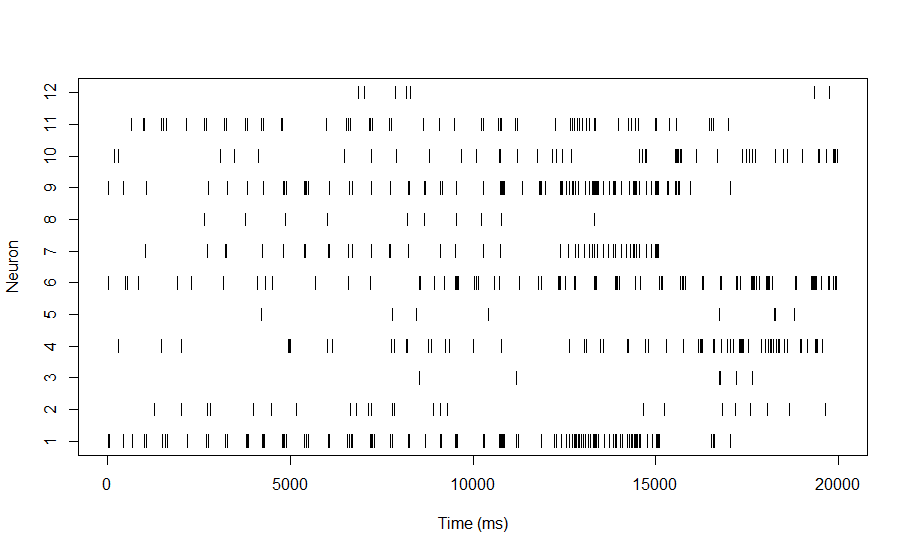
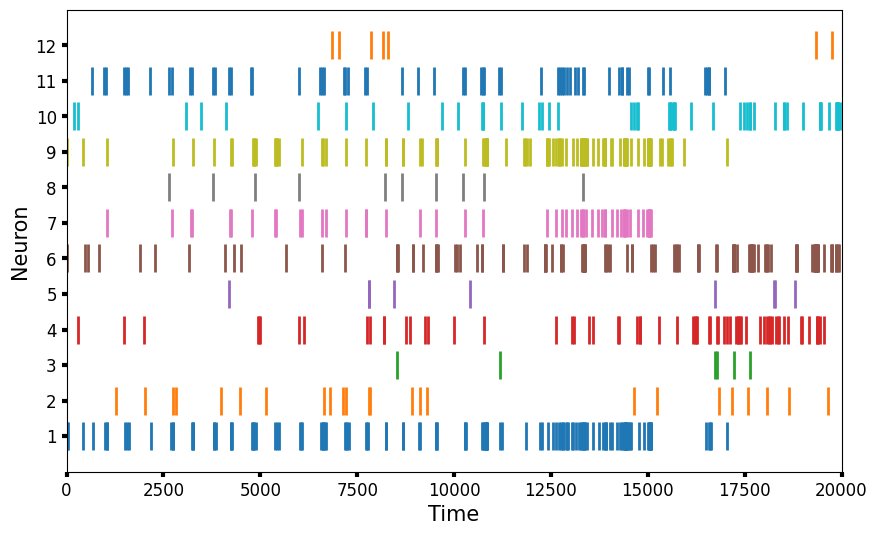
first post

diff --git a/pages/posts/Directednetwork.js b/pages/posts/Directednetwork.js
@@ -4,36 +4,103 @@ import {
     Link,
     List,
     ListItem,
-    AspectRatio
+    AspectRatio,
+    Image,
+    Stack
   } from '@chakra-ui/react'
   import { ExternalLinkIcon } from '@chakra-ui/icons'
   import { Title, PostImage, Meta } from '../../components/post'
   import P from '../../components/paragraph'
   import Layout from '../../components/layouts/article'
+
+
+import MathJax from 'react-mathjax'
+
   
+  const tex = `p(s_{j+1} - s_{j} = w_{j}| s_{j}, μ(t)) = μ(s_{j+1})exp[-∫_{s_j}^{s_j+1}μ(t)dt]`
+  const tex2 =`dμ_{g}(t)/dt = Σ_{l=1}^{12}f_{gl}(μ_{l}(t))`
+
   const Post = () => (
+
       <Layout title="Directed networks of neurons">
+        
           <Container>
+  
               <Title>
                   Directed networks of neurons <Badge> 2020 May </Badge>
               </Title>
 
-              Key words:  
-  
-              <List ml={3} my={0}>
+              <List ml={3} my={1}>
                   <ListItem>
                       <Meta>Spike sequences </Meta>
+                      <Meta>Point Processes</Meta>
+                      <Meta>Functional Data Analysis</Meta>
+                      <Meta>Network Analysis</Meta>
+                      <Meta>Variable Selection</Meta>
                   </ListItem>
               </List>
+              <br></br>
+              <h1><b>Introduction</b></h1>
+              <p>
+                This work studies acitivities of neurons on both individual and group level. We aim to establish and analyze a time-varying network. The central objective is how to infer a dynamic network on the bottom from multiple point processes on the top in the following figure.
+              </p>
 
+              <br></br>
+              <Stack direction ='column'>
+                <Image src="/images/posts/allspiketrain.png" boxsize ='200px'/>
               
-              <P>
-                  Introduction or summary here 
-              </P>
-              
-              <PostImage src="/images/posts/allspiketrain.png" alt="Allspiketrain" />
-  
+                 <Image src="/images/posts/animate.gif" boxsize ='200px'/>
+             
+              </Stack>
+              <br></br>
 
+            <h1><b>Conditional intensity function</b></h1>
+
+            <p>
+            First, we can convert a point process into a real-valued function for further analysis.
+             Let <MathJax.Provider>{' '}
+          <MathJax.Node inline formula={'μ(t)'} /></MathJax.Provider> be the conditional intensity function of a spike sequence at time t, such that
+           <MathJax.Provider>
+          <MathJax.Node formula={tex} />
+            </MathJax.Provider>
+            where <MathJax.Provider>{' '}
+          <MathJax.Node inline formula={'s_j'}/></MathJax.Provider> is the time of last spike and <MathJax.Provider>{' '}
+          <MathJax.Node inline formula={'s_+1'}/></MathJax.Provider> is the time of next one. After some computations, we can obtain
+          <br></br>
+          <br></br>
+                        <Stack direction ='column'>
+                <Image src="/images/posts/intensity_1.png" boxsize ='200px'/>
+              
+                 <Image src="/images/posts/intensity_2.png" boxsize ='200px'/>
+             
+              </Stack>
+            </p>
+            <br></br>
+            <h1><b>Establish a network and inferences</b></h1>
+
+
+<p>
+A time-varying directed network is then established based on intensity functions <MathJax.Provider>{' '}
+          <MathJax.Node inline formula={'μ_{1}(t),..., μ_{12}(t)'}/></MathJax.Provider>given a group of 12 neurons. The gist is to consider that the changes in spiking activities of $g$-th neuron depends on others in the group through
+
+           <MathJax.Provider>
+          <MathJax.Node formula={tex2} />
+            </MathJax.Provider>
+
+where we can consider <MathJax.Provider>{' '}
+          <MathJax.Node inline formula={'[f_{gl}]_{g,l =1}^{12}'}/></MathJax.Provider> are the regulation effects of l-th neuron on g-gh. A dynamic network can be inferred by using 12 models in the above form so that we use regulation effects to illustrate the directed connectivity between neurons. If <MathJax.Provider>{' '}
+          <MathJax.Node inline formula={'f_{gl}(μ_{l}(t))'}/></MathJax.Provider> is large, then l-th neuron has strong effects on g-th neuron at time t, for g, l = 1,..., 12. By assuming <MathJax.Provider>{' '}
+          <MathJax.Node inline formula={'[f_{gl}]_{g,l =1}^{12}'}/></MathJax.Provider> are sparse functions, either<MathJax.Provider>{' '}
+          <MathJax.Node inline formula={'f_{gl} ≡ 0'}/></MathJax.Provider> or <MathJax.Provider>{' '}
+          <MathJax.Node inline formula={'f_{gl}(μ_{l}(t)) = 0'}/></MathJax.Provider> for some time t, we can select significant connections across neurons in the group. The below figure is the regulation functions on one of the neurons.
+
+</p>      
+<br></br>
+  <Stack direction ='column'>
+    <Image src="/images/posts/neuron9_reg.png"/>
+</Stack>
+
+                
           </Container>
       </Layout>
    

diff --git a/pages/posts.js b/pages/posts.js
@@ -4,6 +4,7 @@ import Section from '../components/section'
 import { PostGridItem } from '../components/grid-item'
 
 import spiketrain from '../public/images/posts/allspiketrain.png'
+
 const Posts = () => (
   
   <Layout title="Posts">
